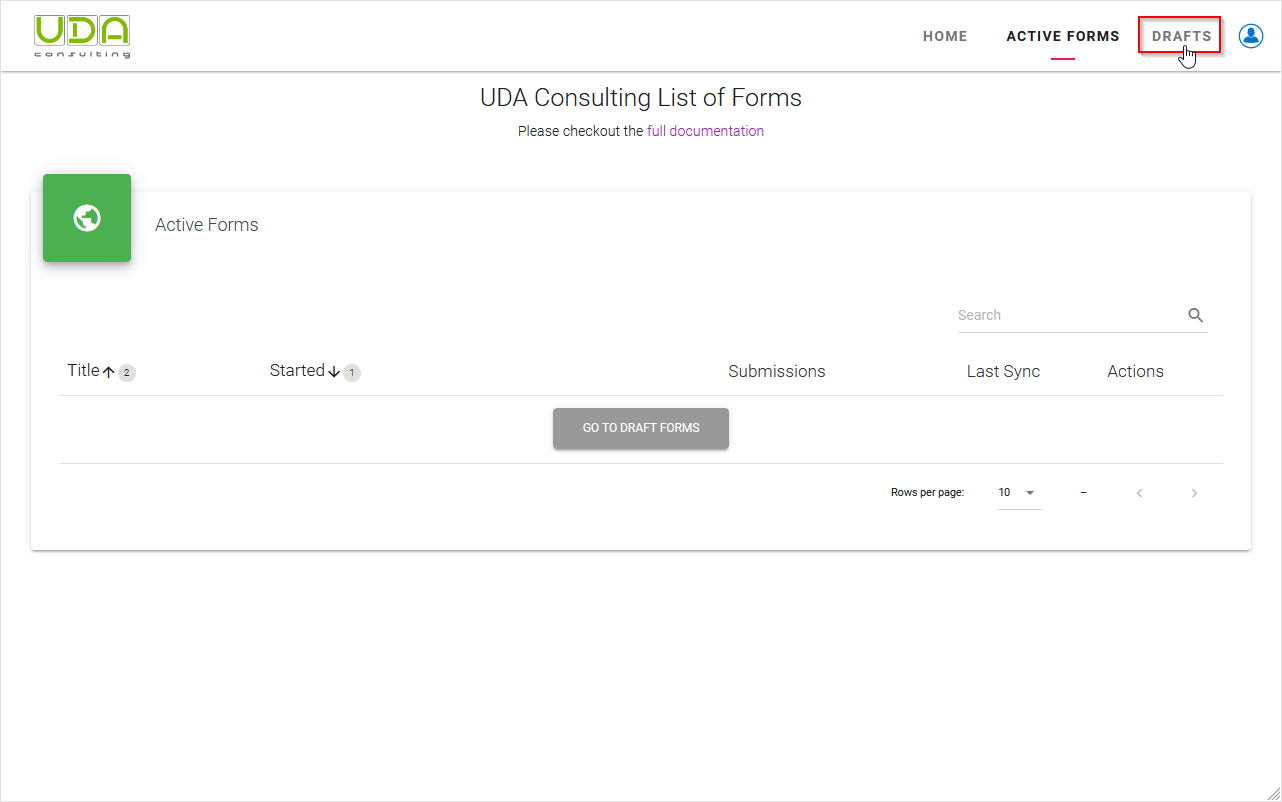
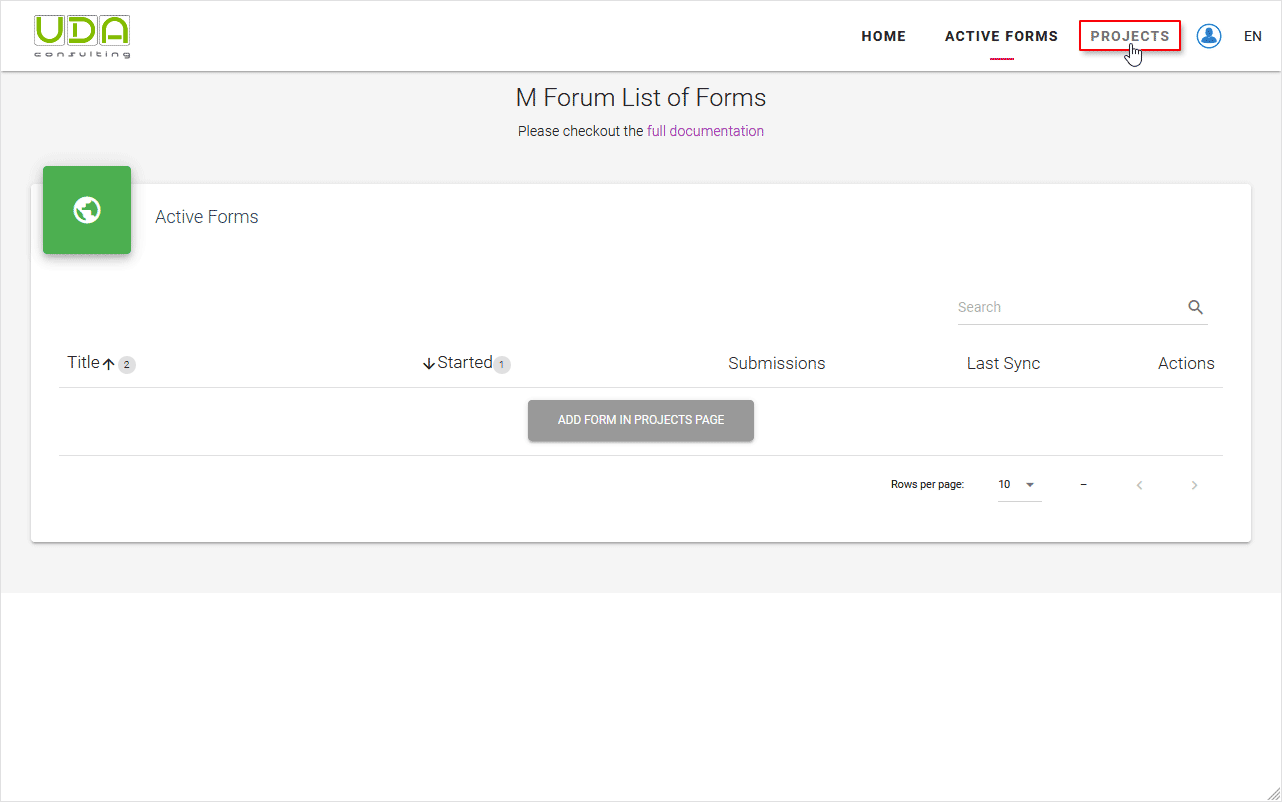
vorking on new projects

diff --git a/docs/guide/02-initial-setup.md b/docs/guide/02-initial-setup.md
@@ -4,28 +4,30 @@ To start using the system first you need register your organization. After succe
 
 ![An image](/images/s2_0-RegOrganization.png)
 
-To start using the system you need a survey form. Click `GO TO DRAFT FORMS` button the under the **Active Forms** section or `DRAFTS` menu
+To start using the system you need to register a new project. Click `ADD FORM IN PROJECTS PAGE` button the under the **Active Forms** section or `PROJECTS` menu
 
-![An image](/images/s2_0-ActiveForms.png)
-
-## Register your Organization
-
-**Step 2.1** First you need to register your organization
-
-![An image](/images/s2_1-RegOrganization.png)
+![An image](/images/s2-ActiveFormsNone.png)
 
 ## Register a Project
 
-**Step 2.2** Each survey form belongs to a project. Therefor you also need to register a new project.
+**Step 2.2** Each survey form belongs to a project. Therefor first, you need to register a new project. In **Projects** page click on the `New Project` button.
 
-![An image](/images/s2_2-RegProject.png)
+![An image](/images/s4-ProjectsNone.png)
+
+Then enter the title of you project in the popup dialog box and click `REGISTER`
+
+![An image](/images/s4-ProjectsAddNew.png)
 
 ## Add a Survey Form
 
-**Step 2.3** Next you register a survey form. i) First, select a project from the list; ii) Enter Survey form title to be displayed on Devices. Instance Name is automatically generated from Form title, but you also can manually change it by clicking on pencil image.  Survey form’s default version is 1, change / increase it when needed. Add some description test about your survey form and click `Save` button.
+**Step 2.3** Now you can register a survey form. First, click `NEW FORM` button inside the project block.
 
-![An image](/images/s2_3-RegForm.png)
+![An image](/images/s4-ProjectsAddForm.png)
 
-Now your new form is registered and you are ready to upload your XLSForm
+In the `New Form` dialog box enter title for the survey form into `Form Title on Device` field. This title will be displayed on Devices. `Instance Name` is automatically generated from Form title, but you also can manually change it by clicking on pencil image.  Survey form’s default version is 1, change / increase it when needed. Add some description test about your survey form and click `Save` button.
 
-![An image](/images/s2_4-NewDraftForm.jpg)
+![An image](/images/s4-ProjectsAddFormDialog.png)
+
+Now your new form is registered and you are ready to  [upload your XLSForm](/guide/11-upload-xlsform.html).
+
+![An image](/images/s4-ProjectsDraftForm.png)

diff --git a/docs/guide/11-upload-xlsform.md b/docs/guide/11-upload-xlsform.md
@@ -1,8 +1,8 @@
 # Upload XLSForm
 
-When XLSForm of your survey form is ready you can upload it into the platform. Click `UPLOAD` button on the `Drafts` page:
+When XLSForm of your survey form is ready you can upload it into the platform. Click `Upload XLSForm` button under the `Actions` column in `Projects` page:
 
-![An image](/images/s2_3-uploadLink.png)
+![An image](/images/s4-ProjectsDraftFormUpload.png)
 
 **Step 4.1** Navigate and attach your **XLSForm** (Excel file), then **Select default language** for your survey form.
 
@@ -16,4 +16,6 @@ UDACAPI platform will generate the settings based on Form details. [Settings wor
 
 **Step 4.2** If the XLSForm has no errors your survey form will be deployed into server. If you have any media / csv files attached to your form you will be able to upload them by clicking on `Attachments` button.
 
-![An image](/images/s4_2-FormAttachments.png)
+![An image](/images/s4-ProjectsDeployedAttachment.png)
+
+Now you are ready to [test and publish your XLSForm](/guide/12-test-form.html).

diff --git a/docs/guide/12-test-form.md b/docs/guide/12-test-form.md
@@ -6,7 +6,7 @@
 
 ![An image](/images/s5_1-draftQRCode.png)
 
-**Step 5.2** Click QR Code image and scan it with your ODK Collect or download it to share with your colleagues who will test the survey form
+**Step 5.2** Click QR Code image and scan it with your [ODK Collect](/guide/15-odk-collect.html) application or download it to share with your colleagues who will test the survey form.
 
 ![An image](/images/s5_2-DownloadDraftQRCode.png)
 

diff --git a/docs/guide/03-account-settings.md b/docs/guide/03-account-settings.md
@@ -34,5 +34,5 @@ When you have several projects from different clients, you most likely want that
 ::: tip
 1. Web user's access levels are project based. 
 2. New users by default will not have any access to any project.
-3. To grant access to a web user you use Project Settings.
+3. Grant access to a web user is done from [Project Settings](/guide/04-projects.html#project-settings.md).
 :::

diff --git a/docs/README.md b/docs/README.md
@@ -1,7 +1,7 @@
 ---
 home: true
 heroImage: /UDACAPI.png
-tagline: UDACAPI Documentation+ (v2.01)
+tagline: UDACAPI Documentation+ (v2.04)
 actionText: Quick Start →
 actionLink: /guide/
 features:
